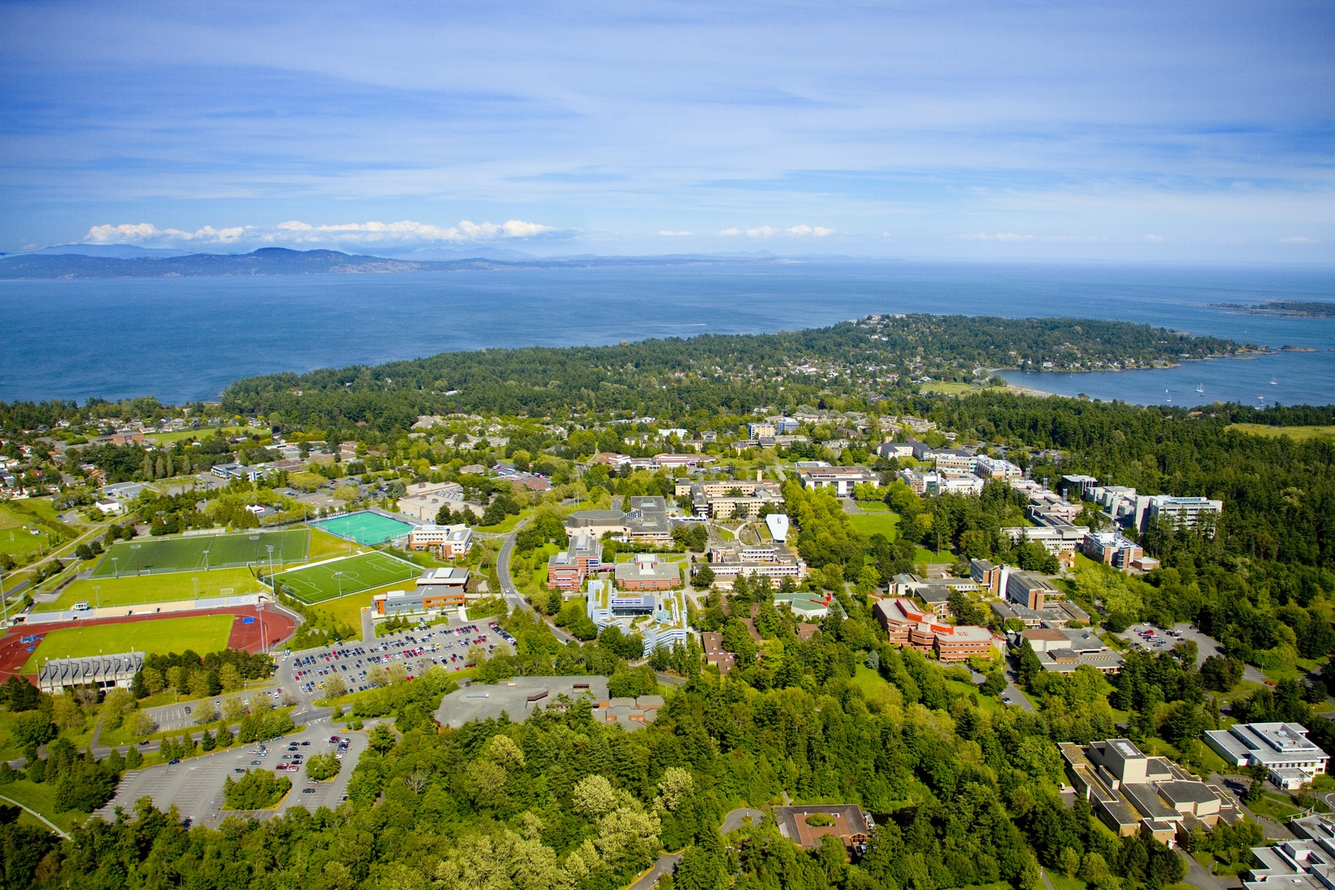
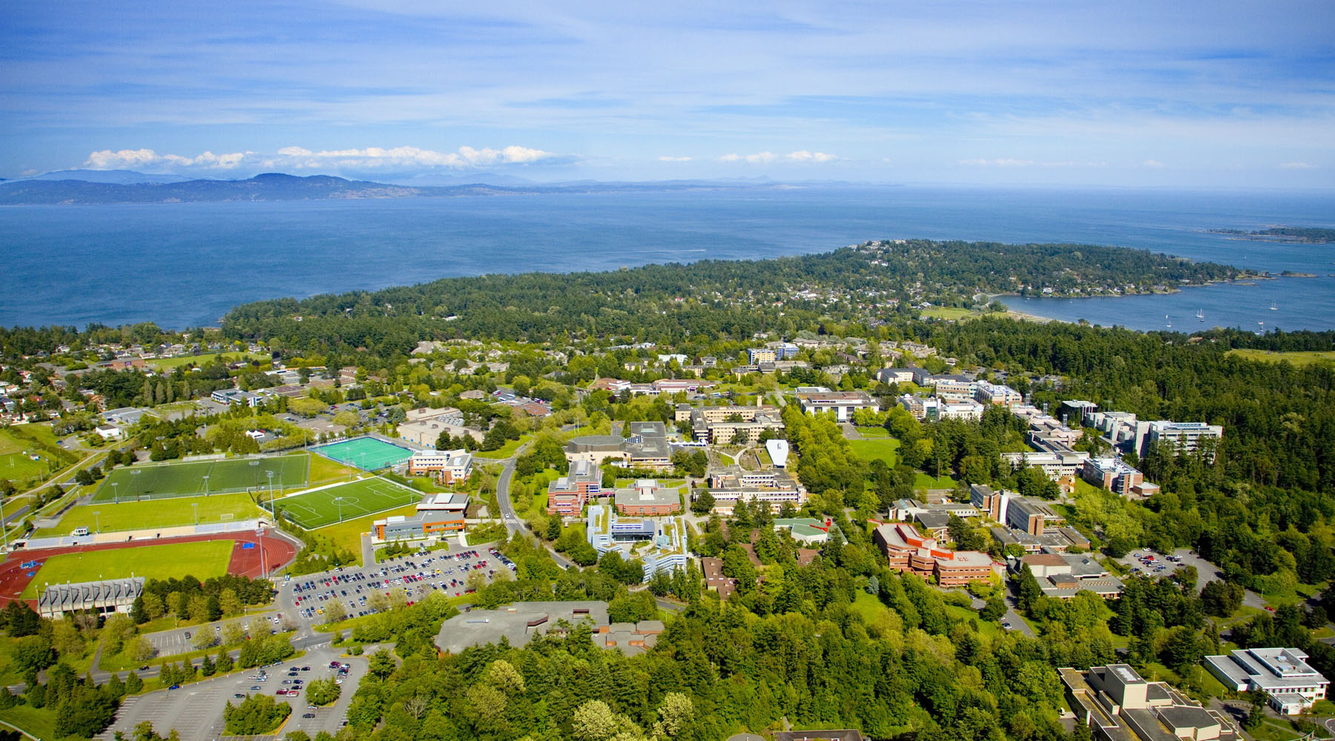
changed the canvas size of our carousel images so they are identical

diff --git a/styles/styles.css b/styles/styles.css
@@ -1,10 +1,25 @@
 
 
 /*
-  Universal font
+  Universal fonts
 */
 * {
   font-family: Arial, Helvetica, sans-serif;
+}
+
+body {
+  background-image: linear-gradient(to bottom right ,#005493,#c63527);
+  /* background-image: linear-gradient(to bottom right, #F06C64, #cf5fae); */
+}
+
+@media (max-width: 992px) {
+  #header .logo {
+    font-size: 28px;
+  }
+}
+
+main{
+  padding: 25px;
 }
 
 .icons {
@@ -15,8 +30,7 @@
   font-size: 25px !important;
 }
 
-/* navbar */
-
+/*HEADER*/
 #header {
   background:#002754;
   transition: all 0.5s;
@@ -48,12 +62,8 @@
 #header .logo img {
   max-height: 40px;
 }
+/*HEADER ENDS*/
 
-@media (max-width: 992px) {
-  #header .logo {
-    font-size: 28px;
-  }
-}
 
 /*--------Navigation Menu----------------*/
 /* DeskTop Navigation */
@@ -98,11 +108,8 @@
 }
 
 
-
 /* button group
 Clear floats (clearfix hack) */
-
-
 .btn-group button {
   background-color: #F5AA1C ; /* Green background */
   border: 5px solid  #002754  ; /* Green border */
@@ -127,8 +134,3 @@ Clear floats (clearfix hack) */
 .btn-group button:hover {
   background-color: #c63527;
 }
-
-
-
-
-

diff --git a/index.html b/index.html
@@ -19,8 +19,6 @@
 
     <!-- STYLES BEGIN -->
     <link rel="stylesheet" href="./styles/styles.css">
-
-
     <link rel="stylesheet" href="https://www.w3schools.com/w3css/4/w3.css">
     <link rel="stylesheet" href="https://cdn.jsdelivr.net/npm/bootstrap@4.5.3/dist/css/bootstrap.min.css"
     integrity="sha384-TX8t27EcRE3e/ihU7zmQxVncDAy5uIKz4rEkgIXeMed4M0jlfIDPvg6uqKI2xXr2"
